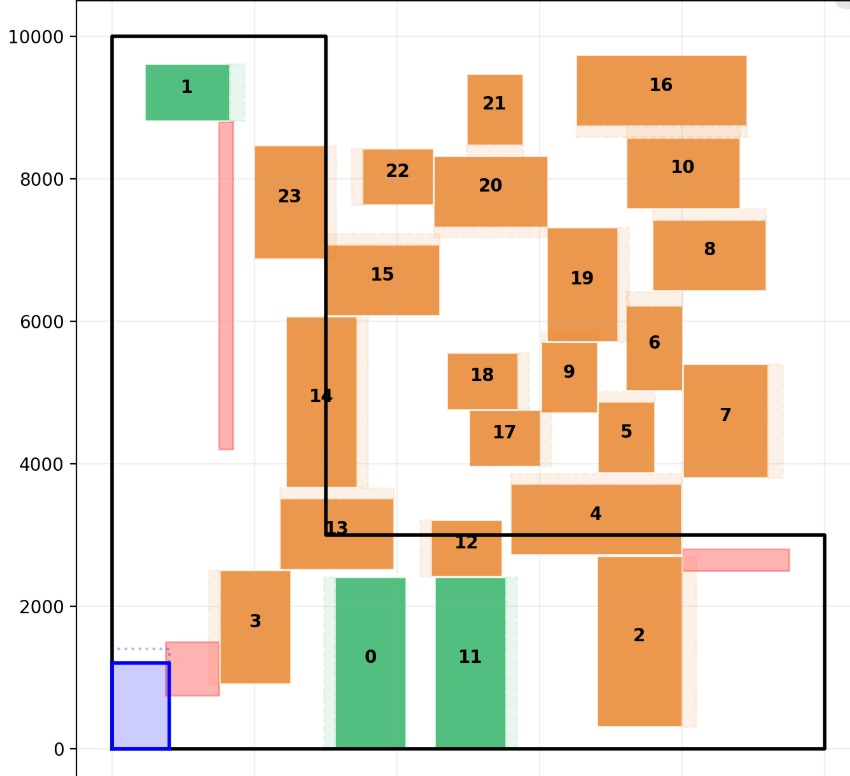
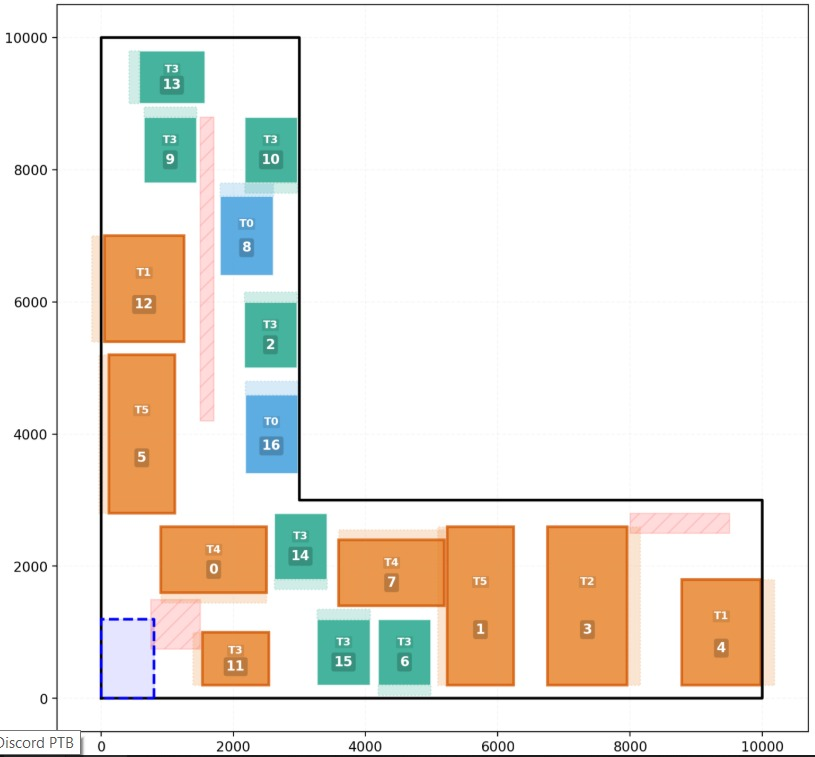
script.py medio mejorado

diff --git a/validator.py b/validator.py
@@ -43,7 +43,6 @@ def polygons_overlap(poly1: Polygon, poly2: Polygon) -> bool:
     return True
 
 def is_point_in_polygon(point: Tuple[float, float], polygon: Polygon) -> bool:
-    """Ray-Casting: Comprueba si un punto está dentro de los muros reales (forma de L, etc)"""
     x, y = point
     inside = False
     n = len(polygon)
@@ -55,32 +54,68 @@ def is_point_in_polygon(point: Tuple[float, float], polygon: Polygon) -> bool:
             inside = not inside
     return inside
 
-def calculate_total_poly(p: Polygon, gap: float) -> Polygon:
-    """Genera el rectángulo físico + gap SIEMPRE en la misma posición para cuadrar con Matplotlib"""
-    p1, p2, p3, p4 = p[0], p[1], p[2], p[3]
-    v_y = (p4[0] - p1[0], p4[1] - p1[1])
-    length = math.hypot(*v_y)
-    if length == 0: return p
-    gx = (v_y[0] / length) * gap
-    gy = (v_y[1] / length) * gap
-    return [(p1[0]-gx, p1[1]-gy), (p2[0]-gx, p2[1]-gy), p3, p4]
+def segments_intersect(p1: Tuple[float, float], p2: Tuple[float, float], p3: Tuple[float, float], p4: Tuple[float, float]) -> bool:
+    """Checks if line segment p1-p2 intersects with line segment p3-p4."""
+    def ccw(A, B, C):
+        return (C[1] - A[1]) * (B[0] - A[0]) > (B[1] - A[1]) * (C[0] - A[0])
+    return ccw(p1, p3, p4) != ccw(p2, p3, p4) and ccw(p1, p2, p3) != ccw(p1, p2, p4)
 
-def check_full_collision(total_poly: Polygon, static_polys: List[Polygon], placed_total_polys: List[Polygon], floor_plan: Polygon) -> bool:
-    """Valida límites exactos de los muros y colisiones físicas"""
-    for px, py in total_poly:
-        if not is_point_in_polygon((px, py), floor_plan): return False
-    for obs in static_polys:
-        if polygons_overlap(total_poly, obs): return False
-    for other in placed_total_polys:
-        if polygons_overlap(total_poly, other): return False
+def polygon_edges_intersect(poly1: Polygon, poly2: Polygon) -> bool:
+    """Checks if any edge of poly1 crosses any edge of poly2."""
+    for i in range(len(poly1)):
+        a1, a2 = poly1[i], poly1[(i + 1) % len(poly1)]
+        for j in range(len(poly2)):
+            b1, b2 = poly2[j], poly2[(j + 1) % len(poly2)]
+            if segments_intersect(a1, a2, b1, b2):
+                return True
+    return False
+
+def is_poly_inside_floor_plan(poly: Polygon, floor_plan: Polygon) -> bool:
+    """Validates that a polygon is entirely inside the room, with no walls crossing through it."""
+    for p in poly:
+        if not is_point_in_polygon(p, floor_plan): return False
+    if polygon_edges_intersect(poly, floor_plan): return False
     return True
 
-def validate_bay_with_double_gap(bay_phys_points: Polygon, bay_h: float, gap_size: float, static_polys: List[Polygon], placed_total_polys: List[Polygon], floor_plan: Polygon, ceiling_profile: CeilingProfile) -> Optional[Polygon]:
-    if not is_ceiling_valid(bay_phys_points, bay_h, ceiling_profile): return None
-    # ELIMINADO EL BUCLE. Ahora físicas y gráfica hablan el mismo idioma.
-    poly_total = calculate_total_poly(bay_phys_points, gap_size)
-    if not is_ceiling_valid(poly_total, bay_h, ceiling_profile):
-        return None
-    if check_full_collision(poly_total, static_polys, placed_total_polys, floor_plan):
-        return poly_total 
-    return None
+def calculate_polygons(x: float, y: float, w: float, d: float, gap: float, angle_deg: float) -> Tuple[Polygon, Polygon]:
+    """Generates precise Bay and Gap polygons anchoring at (x,y), matching Matplotlib logic exactly."""
+    rad = math.radians(angle_deg)
+    cos_r, sin_r = math.cos(rad), math.sin(rad)
+
+    def transform(px, py):
+        tx = px * cos_r - py * sin_r
+        ty = px * sin_r + py * cos_r
+        return (x + tx, y + ty)
+
+    # Bay relative vertices
+    bay_pts = [(0, 0), (w, 0), (w, d), (0, d)]
+    bay_poly = [transform(px, py) for px, py in bay_pts]
+
+    # Gap relative vertices (attached to bottom edge y=0)
+    gap_pts = [(0, -gap), (w, -gap), (w, 0), (0, 0)]
+    gap_poly = [transform(px, py) for px, py in gap_pts]
+
+    return bay_poly, gap_poly
+
+def check_full_collision(bay_poly: Polygon, gap_poly: Polygon, static_polys: List[Polygon], placed_bays: List[Dict[str, Polygon]], floor_plan: Polygon) -> bool:
+    """Validates limits and selectively checks collisions (allowing gap-gap overlaps)."""
+    # 1. Must be inside warehouse
+    if not is_poly_inside_floor_plan(bay_poly, floor_plan): return False
+    if not is_poly_inside_floor_plan(gap_poly, floor_plan): return False
+
+    # 2. Neither can hit static obstacles
+    for obs in static_polys:
+        if polygons_overlap(bay_poly, obs): return False
+        if polygons_overlap(gap_poly, obs): return False
+
+    # 3. Check against already placed bays
+    for placed in placed_bays:
+        p_bay = placed['bay']
+        p_gap = placed['gap']
+
+        if polygons_overlap(bay_poly, p_bay): return False  # Bay hits Bay
+        if polygons_overlap(bay_poly, p_gap): return False  # Bay hits Gap
+        if polygons_overlap(gap_poly, p_bay): return False  # Gap hits Bay
+        # NOTE: polygons_overlap(gap_poly, p_gap) is intentionally OMITTED here! Overlap is allowed.
+
+    return True

diff --git a/Grav.py b/Grav.py
@@ -1,48 +1,46 @@
 import math
 from typing import List, Tuple, Optional, Dict, Any
 from data_collection import Layout 
-from validator import validate_bay_with_double_gap 
+from validator import calculate_polygons, is_ceiling_valid, check_full_collision
 
 Polygon = List[Tuple[float, float]]
 
-def create_rotated_rect(x: float, y: float, w: float, d: float, angle_deg: float) -> Polygon:
-    rad = math.radians(angle_deg)
-    cos_r, sin_r = math.cos(rad), math.sin(rad)
-    puntos_relativos = [(0, 0), (w, 0), (w, d), (0, d)]
-    return [(x + px * cos_r - py * sin_r, y + px * sin_r + py * cos_r) for px, py in puntos_relativos]
-
-def place_shelf_gravity(bay_id: int, layout: Layout, angle_deg: float, start_pos: Tuple[float, float], target_pos: Tuple[float, float], placed_total_polys: List[Polygon], static_polys: List[Polygon], floor_plan: Polygon) -> Tuple[Optional[Polygon], Optional[Polygon], Optional[float], Optional[float]]:
+def place_shelf_gravity(bay_id: int, layout: Layout, angle_deg: float, start_pos: Tuple[float, float], target_pos: Tuple[float, float], placed_bays: List[Dict[str, Polygon]], static_polys: List[Polygon], floor_plan: Polygon) -> Tuple[Optional[Polygon], Optional[Polygon], Optional[float], Optional[float]]:
     specs = layout.bays[bay_id]
     w, d, h_bay, gap = specs['width'], specs['depth'], specs['height'], specs['gap']
     
-    low, high = 0.0, 1.0
-    best_poly, best_total_poly, best_x, best_y = None, None, None, None
+    # Linear step search (Raycast-like) instead of buggy binary search
+    steps = 50 
+    dx = (target_pos[0] - start_pos[0]) / steps
+    dy = (target_pos[1] - start_pos[1]) / steps
 
-    for _ in range(10):
-        mid = (low + high) / 2.0
-        cur_x = start_pos[0] * mid + target_pos[0] * (1 - mid)
-        cur_y = start_pos[1] * mid + target_pos[1] * (1 - mid)
-        
-        test_bay_poly = create_rotated_rect(cur_x, cur_y, w, d, angle_deg)
-        
-        # Le pasamos el floor_plan completo en vez de los límites cuadrados
-        valid_total_poly = validate_bay_with_double_gap(
-            test_bay_poly, h_bay, gap, 
-            static_polys, placed_total_polys, 
-            floor_plan, layout.ceiling
-        )
+    best_bay, best_gap, best_x, best_y = None, None, None, None
+    was_valid = False
 
-        if valid_total_poly is None: 
-            low = mid 
-        else: 
-            best_poly = test_bay_poly
-            best_total_poly = valid_total_poly
+    for i in range(steps + 1):
+        cur_x = start_pos[0] + dx * i
+        cur_y = start_pos[1] + dy * i
+        
+        bay_poly, gap_poly = calculate_polygons(cur_x, cur_y, w, d, gap, angle_deg)
+        
+        is_valid = False
+        if is_ceiling_valid(bay_poly, h_bay, layout.ceiling) and is_ceiling_valid(gap_poly, h_bay, layout.ceiling):
+            if check_full_collision(bay_poly, gap_poly, static_polys, placed_bays, floor_plan):
+                is_valid = True
+
+        if is_valid:
+            best_bay, best_gap = bay_poly, gap_poly
             best_x, best_y = cur_x, cur_y
-            high = mid 
+            was_valid = True
+        else:
+            if was_valid:
+                # The bay was sliding fine but hit an obstacle or the wall. Stop gravity here.
+                break 
             
-    return best_poly, best_total_poly, best_x, best_y
+    return best_bay, best_gap, best_x, best_y
 
 def calculate_fitness(placed_data: List[Dict[str, Any]], layout: Layout) -> float:
+    # Function entirely untouched as requested
     if not placed_data: return float('inf')
     area_almacen = 0.0
     for i in range(len(layout.floor_plan)):
@@ -55,4 +53,4 @@ def calculate_fitness(placed_data: List[Dict[str, Any]], layout: Layout) -> floa
     used_area = sum(d['width'] * d['depth'] for d in placed_data)
     
     percentage_area_used = used_area / area_almacen if area_almacen > 0 else 0
-    return (total_price / total_load) ** (2.0 - percentage_area_used) if total_load > 0 else float('inf')
+    return max(total_price / total_load,1) ** (2.0 - percentage_area_used) if total_load > 0 else float('inf')

diff --git a/script.py b/script.py
@@ -21,7 +21,7 @@ def run_grasp_optimization(layout: Layout, iterations: int = 50) -> Tuple[List[A
     print(f"Iniciando optimización...")
     
     for i in range(iterations):
-        current_total_polys = [] 
+        current_placed_bays = [] # Updated to hold dictionaries {'bay': poly, 'gap': poly}
         current_shelves_data = [] 
         current_bays_format = [] 
         
@@ -33,16 +33,17 @@ def run_grasp_optimization(layout: Layout, iterations: int = 50) -> Tuple[List[A
             target_pos = (random.uniform(min_x, max_x), min_y)
             angle = random.choice([0, 90, 180, 270]) 
             
-            # Pasamos directamente el floor_plan
-            poly, total_poly, final_x, final_y = place_shelf_gravity(
+            # Unpack the new separated polygons
+            bay_poly, gap_poly, final_x, final_y = place_shelf_gravity(
                 shelf['id'], layout, angle, 
                 start_pos, target_pos, 
-                current_total_polys, static_polys, 
+                current_placed_bays, static_polys, 
                 layout.floor_plan
             )
             
-            if poly is not None:
-                current_total_polys.append(total_poly)
+            if bay_poly is not None and gap_poly is not None:
+                # Save as a dictionary so the validator can distinguish them
+                current_placed_bays.append({'bay': bay_poly, 'gap': gap_poly})
                 current_shelves_data.append(shelf)
                 current_bays_format.append([shelf['id'], final_x, final_y, angle])
                 
@@ -50,13 +51,14 @@ def run_grasp_optimization(layout: Layout, iterations: int = 50) -> Tuple[List[A
         
         if fitness < best_fitness:
             best_fitness = fitness
-            best_layout = current_total_polys
+            best_layout = current_placed_bays
             best_bays_format = current_bays_format
             print(f"Iteración {i+1}: Nuevo mejor fitness -> {best_fitness:.4f}")
             
     return best_layout, best_fitness, best_bays_format
 
 if __name__ == "__main__":
+    # Your main block stays exactly as it was
     ruta_datos = "./PublicTestCases/Case0/" 
     try:
         layout_almacen = cargar_datos_logistica(ruta_datos)

diff --git a/data_collection.py b/data_collection.py
@@ -100,7 +100,6 @@ class Layout:
         return round(porcentaje, 2)
         
         
-
 def cargar_datos_logistica(path_folder: str) -> Layout:
     # Asegurar que el path termina en / si es un string
     if not path_folder.endswith('/') and not path_folder.endswith('\\'):
@@ -129,7 +128,6 @@ def cargar_datos_logistica(path_folder: str) -> Layout:
         ceiling=ceiling_profile,
         bays=bays_catalog
     )
-
 
 def visualizar_layout_completo(floor_plan, obstacles, bays_catalog, ceiling_profile, bays_colocadas):
     fig, ax = plt.subplots(figsize=(14, 12))
